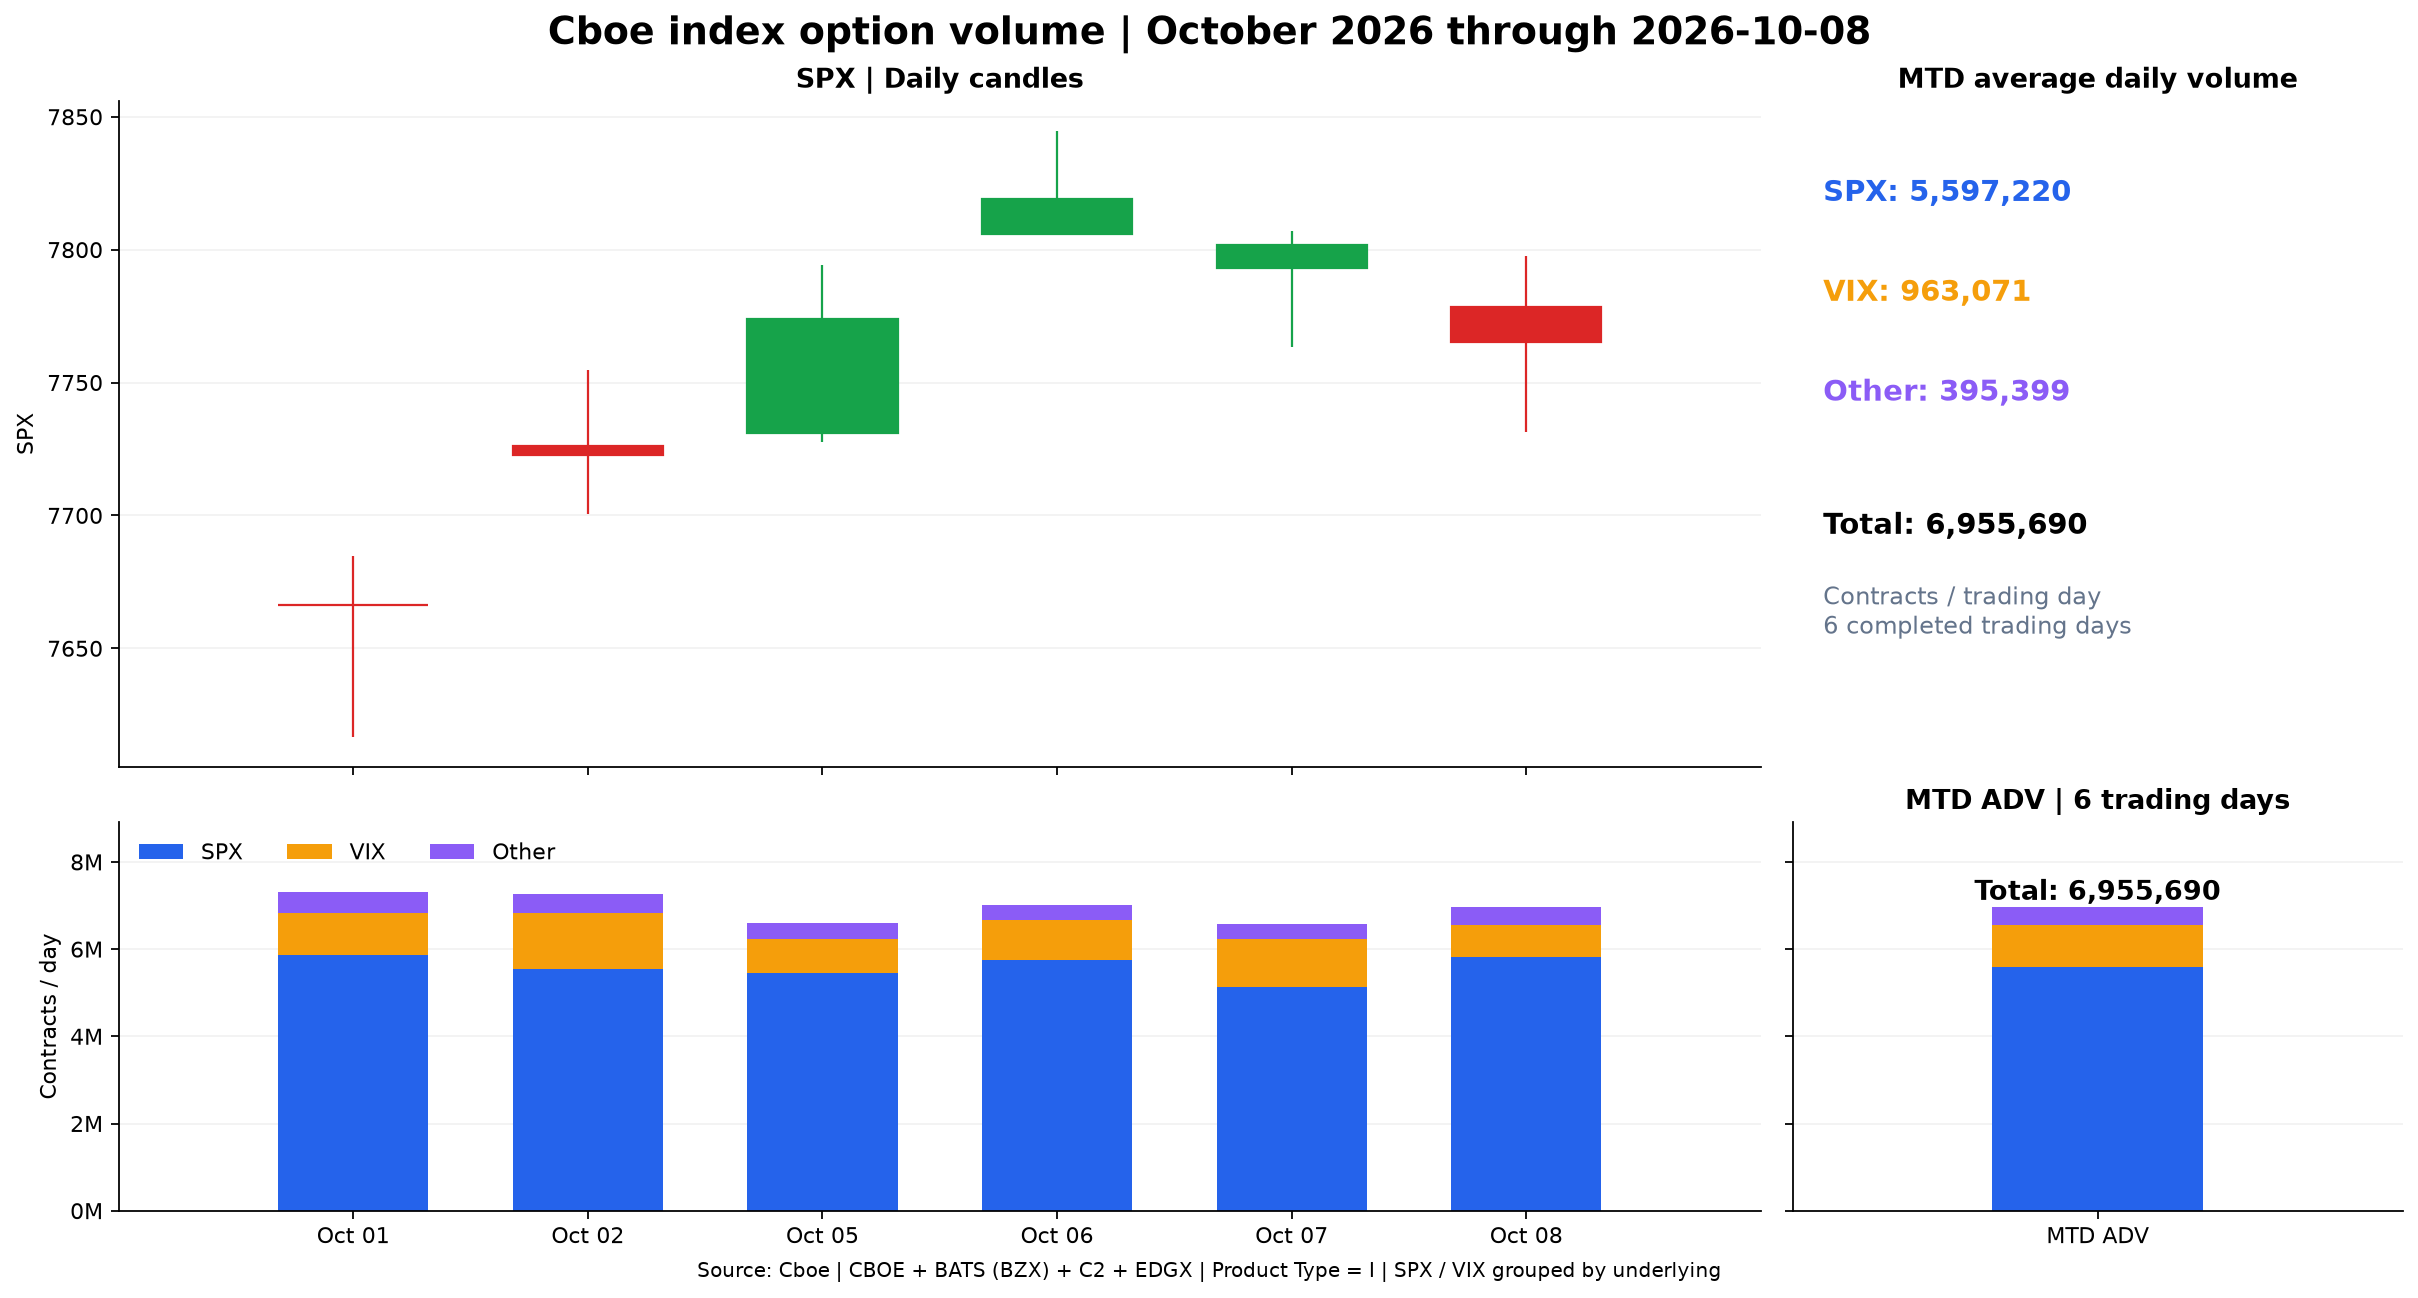
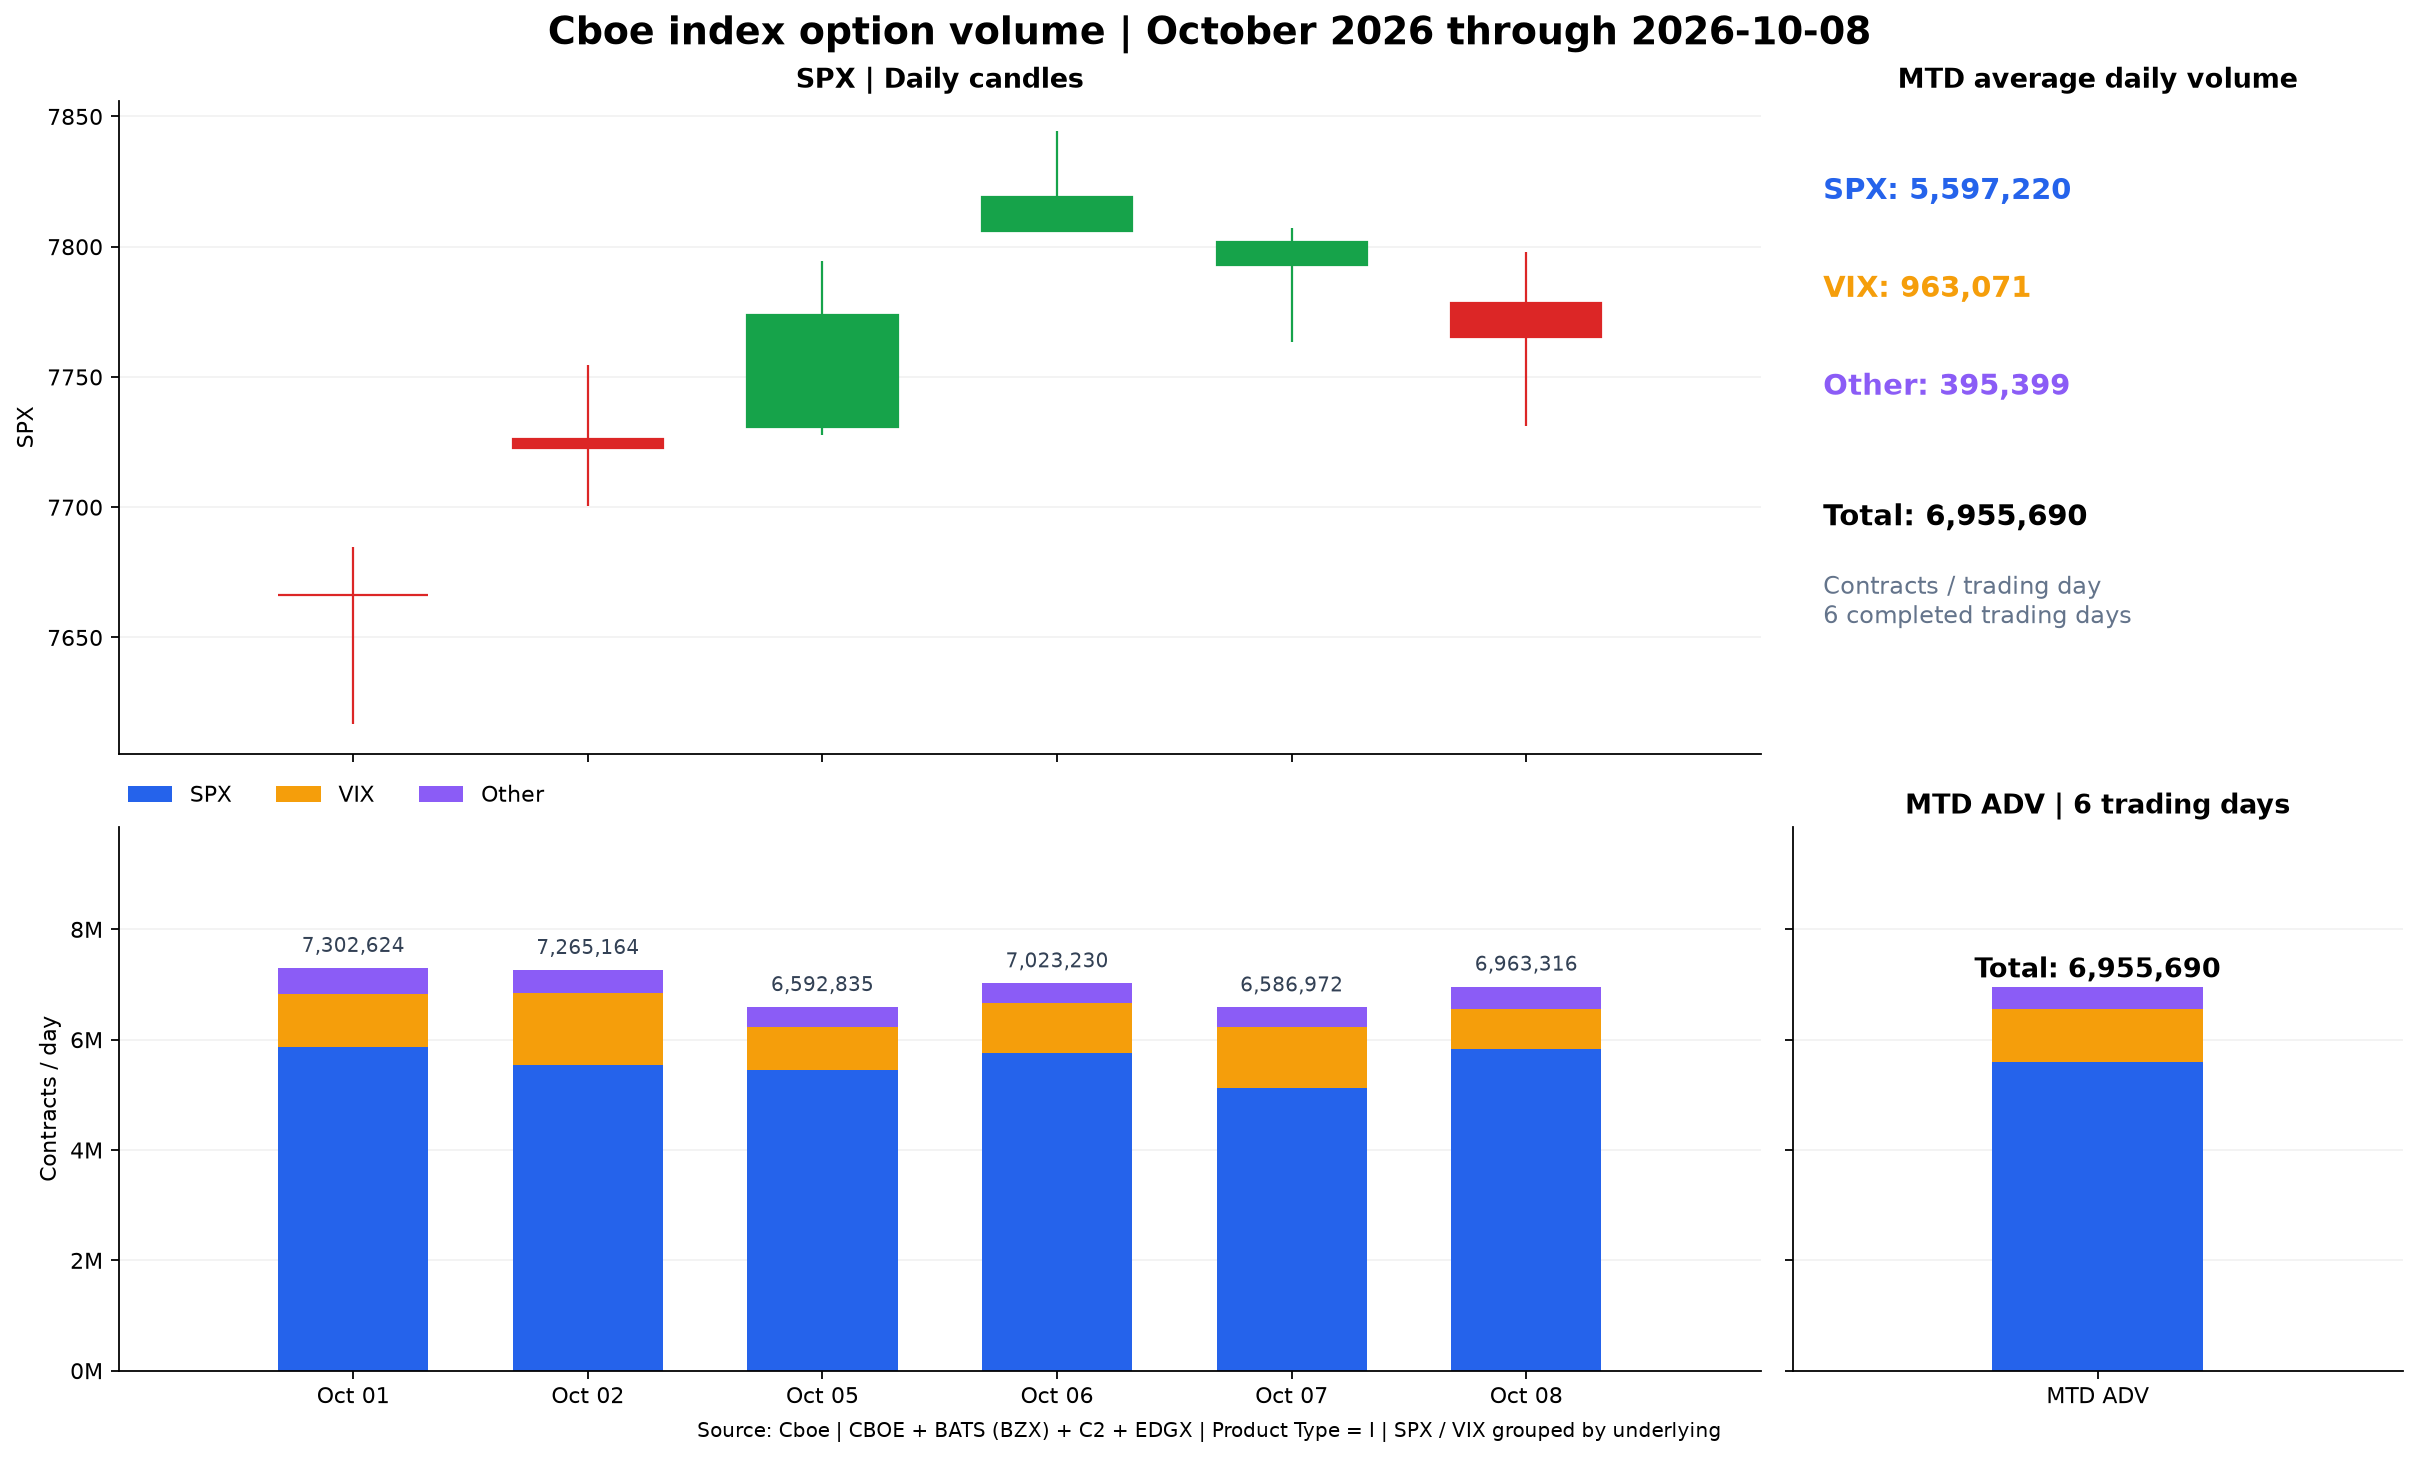
Add daily total labels to index MTD volume charts

diff --git a/tests/test_spx_reports.py b/tests/test_spx_reports.py
@@ -287,6 +287,44 @@ class ReportTests(unittest.TestCase):
         with patch.object(reports, "save_png", side_effect=inspect):
             reports.plot_index_mtd(bars, [(100, 30, 1)], (100, 30, 1), day, day, Path("unused"))
 
+    def test_daily_totals_are_correct_and_fit_dense_months(self):
+        # Equal-height, eight-digit totals are tougher to place than September's
+        # varying heights. Check actual rendered bounds, including 22/23 bars.
+        for count in (1, 12, 13, 21, 22, 23):
+            with self.subTest(trading_days=count):
+                days = [date(2026, 9, 1) + timedelta(days=i) for i in range(count)]
+                bars = [reports.Candle(day, 100, 102, 99, 101) for day in days]
+                volumes = [(9_999_999, 7_777_777, 222_224)] * count
+                adv = volumes[0]
+
+                def inspect(fig, destination):
+                    fig.set_dpi(160)  # Match the exported PNG.
+                    fig.canvas.draw()
+                    _, volume_ax, _, adv_ax = fig.axes
+                    renderer = fig.canvas.get_renderer()
+                    labels = volume_ax.texts
+                    self.assertEqual(len(labels), count)
+                    self.assertEqual(volume_ax.get_ylim(), adv_ax.get_ylim())
+                    bounds = []
+                    for i, (label, row) in enumerate(zip(labels, volumes)):
+                        self.assertEqual(label.get_text(), f"{sum(row):,}")
+                        self.assertEqual(label.xy, (i, sum(row)))
+                        box = label.get_window_extent(renderer)
+                        panel = volume_ax.get_window_extent(renderer)
+                        self.assertGreaterEqual(box.x0, panel.x0)
+                        self.assertLessEqual(box.x1, panel.x1)
+                        self.assertGreaterEqual(box.y0, panel.y0)
+                        self.assertLessEqual(box.y1, panel.y1)
+                        self.assertFalse(box.overlaps(volume_ax.get_legend().get_window_extent(renderer)))
+                        for previous in bounds:
+                            self.assertFalse(box.overlaps(previous))
+                        for bar in volume_ax.patches:
+                            self.assertFalse(box.overlaps(bar.get_window_extent(renderer)))
+                        bounds.append(box)
+
+                with patch.object(reports, "save_png", side_effect=inspect):
+                    reports.plot_index_mtd(bars, volumes, adv, days[0], days[-1], Path("unused"))
+
     def test_errors_preserve_previous_report(self):
         with tempfile.TemporaryDirectory() as folder:
             path = Path(folder) / reports.OUTPUTS["index-mtd"]

diff --git a/.agents/skills/cboe-spx-reports/scripts/spx_reports.py b/.agents/skills/cboe-spx-reports/scripts/spx_reports.py
@@ -364,8 +364,8 @@ def plot_zero_dte(bars, volumes, close, day, destination):
 def plot_index_mtd(bars, volumes, adv, start, cutoff, destination):
     with plotting() as plt:
         from matplotlib.ticker import FuncFormatter
-        fig = plt.figure(figsize=(15, 8), layout="constrained")
-        grid = fig.add_gridspec(2, 2, width_ratios=[3.5, 1.3], height_ratios=[2.4, 1.4])
+        fig = plt.figure(figsize=(max(15, len(bars) * .55 + 3), 9), layout="constrained")
+        grid = fig.add_gridspec(2, 2, width_ratios=[3.5, 1.3], height_ratios=[2.4, 2])
         price_ax = fig.add_subplot(grid[0, 0])
         volume_ax = fig.add_subplot(grid[1, 0], sharex=price_ax)
         summary_ax = fig.add_subplot(grid[0, 1])
@@ -380,6 +380,16 @@ def plot_index_mtd(bars, volumes, adv, start, cutoff, destination):
                 heights = [v[col] for v in volumes]
                 volume_ax.bar(x, heights, bottom=bottom, width=.64, color=color, label=group)
                 bottom = [a + b for a, b in zip(bottom, heights)]
+            # Full contract counts stay legible in a complete month: slanted
+            # labels fit one trading-day column, with extra height above stacks.
+            dense = len(bars) > 12
+            for i, daily_total in enumerate(bottom):
+                volume_ax.annotate(
+                    f"{daily_total:,}", (i, daily_total), xytext=(0, 5),
+                    textcoords="offset points", fontsize=9, color="#334155",
+                    ha="left" if dense else "center", va="bottom",
+                    rotation=65 if dense else 0, rotation_mode="anchor",
+                )
             step = max(1, math.ceil(len(bars) / 12))
             ticks = x[::step]
             volume_ax.set_xticks(ticks, [bars[i].when.strftime("%b %d") for i in ticks])
@@ -387,9 +397,10 @@ def plot_index_mtd(bars, volumes, adv, start, cutoff, destination):
             volume_ax.yaxis.set_major_formatter(FuncFormatter(lambda v, _: f"{v / 1e6:g}M"))
             volume_ax.grid(axis="y", alpha=.16)
             volume_ax.set_axisbelow(True)
-            volume_ax.legend(ncol=3, frameon=False, loc="upper left")
+            volume_ax.legend(ncol=3, frameon=False, loc="lower left",
+                             bbox_to_anchor=(0, 1.02), borderaxespad=0)
             total = sum(adv)
-            volume_ax.set_ylim(0, max(1, total, *bottom) * 1.22)
+            volume_ax.set_ylim(0, max(1, total, *bottom) * 1.35)
             bottom = 0
             for group, color, value in zip(GROUPS, COLORS, adv):
                 adv_ax.bar(0, value, bottom=bottom, width=.45, color=color)

diff --git a/README.md b/README.md
@@ -10,8 +10,8 @@ saving time. Every successful run replaces its fixed output file.
 
 ## Sample charts
 
-Generated on October 9, 2026 (CT), using the completed October 8 session.
-These saved examples stay unchanged when you generate new reports locally.
+Saved examples from completed Cboe trading sessions.
+These examples stay unchanged when you generate new reports locally.
 
 ### SPX closing 0DTE — October 8, 2026
 
@@ -19,7 +19,11 @@ These saved examples stay unchanged when you generate new reports locally.
 
 ### Cboe index option volume — October 2026 through October 8
 
-![SPX daily candles, stacked SPX/VIX/Other option volume, and MTD ADV with a shared volume axis through October 8, 2026](docs/images/cboe-index-mtd-2026-10-08.png)
+![SPX daily candles, stacked SPX/VIX/Other option volume with daily totals, and MTD ADV with a shared volume axis through October 8, 2026](docs/images/cboe-index-mtd-2026-10-08.png)
+
+### Cboe index option volume — full September 2026 (21 trading days)
+
+![Full September 2026 SPX candles and index option volume, with an exact total above every daily stacked bar and a separate MTD ADV bar](docs/images/cboe-index-mtd-2026-09-30.png)
 
 ## Reports
 
@@ -58,7 +62,10 @@ These saved examples stay unchanged when you generate new reports locally.
   adjusted SPX classes belong to SPX; VIXW belongs to VIX. All other index
   underlyings are automatically combined into Other.
 - Plot SPX daily candlesticks above stacked option volume, ordered from the
-  base upward as SPX, VIX, Other.
+  base upward as SPX, VIX, Other. Every daily bar shows its **total contract
+  volume** above the stack, with commas and no abbreviated or rounded counts.
+  For more than 12 trading days, labels tilt to fit each column; the volume
+  panel leaves extra headroom and grows wider for long months.
 - A separate stacked bar displays **MTD average daily volume (ADV)**, with a
   numeric label for each group and the total. Its bar shares the daily volume
   panel's y-axis, scale, height, and zero baseline for direct comparison.
@@ -227,7 +234,8 @@ Run the offline tests with the same virtual environment:
 ```
 
 The tests cover expiry selection, nearest strikes, candle aggregation, index
-grouping, common ADV denominators, shared volume/ADV axes, month boundaries,
+grouping, common ADV denominators, shared volume/ADV axes, exact daily totals
+and non-overlapping rendered labels for up to 23 bars, month boundaries,
 CT midnight fallback, closing quotes when daily history lags, holidays, early
 closes, missing data, atomic replacement,
 PNG generation, and skill

diff --git a/.agents/skills/cboe-spx-reports/SKILL.md b/.agents/skills/cboe-spx-reports/SKILL.md
@@ -35,8 +35,10 @@ Use `python -B` to avoid leaving bytecode files.
   produces `cboe_index_mtd.png`. The target month contains yesterday's CT calendar
   date. Include only completed trading days from that month's first day through
   yesterday. Plot SPX daily candles above stacked index option volume, with SPX
-  at the base, VIX above it, and Other at the top. Plot a separate stacked MTD
-  ADV bar beside daily volume on the same row, sharing its y-axis and zero
+  at the base, VIX above it, and Other at the top. Label every daily stack with
+  its exact total contract volume, using commas. For more than 12 trading days,
+  tilt totals and leave enough headroom for a full month of labels. Plot a
+  separate stacked MTD ADV bar beside daily volume on the same row, sharing its y-axis and zero
   baseline, with numbers for all three groups and the total.
 
 Set the scheduler timezone to `America/Chicago`, not a fixed UTC offset. DST changes

diff --git a/.agents/skills/cboe-spx-reports/references/data-sources.md b/.agents/skills/cboe-spx-reports/references/data-sources.md
@@ -97,8 +97,10 @@ historical recovery or persistent snapshot store is included.
 
 The daily volume and MTD ADV bars occupy the same figure row and share a
 Matplotlib y-axis. Their limits, ticks, pixel scale, and zero baseline match.
-The common upper limit includes all daily totals and the ADV total; numeric
-ADV details occupy the separate upper-right summary panel.
+Each daily stack has an exact, comma-separated total of SPX + VIX + Other
+contracts above it. Dense months tilt these labels to keep them separate.
+The common upper limit includes all daily totals and the ADV total, with
+headroom for labels; numeric ADV details occupy the upper-right summary panel.
 
 For a morning run on November 1, the report targets October through October 31.
 For a run on October 2, it targets October through October 1. Weekends and
